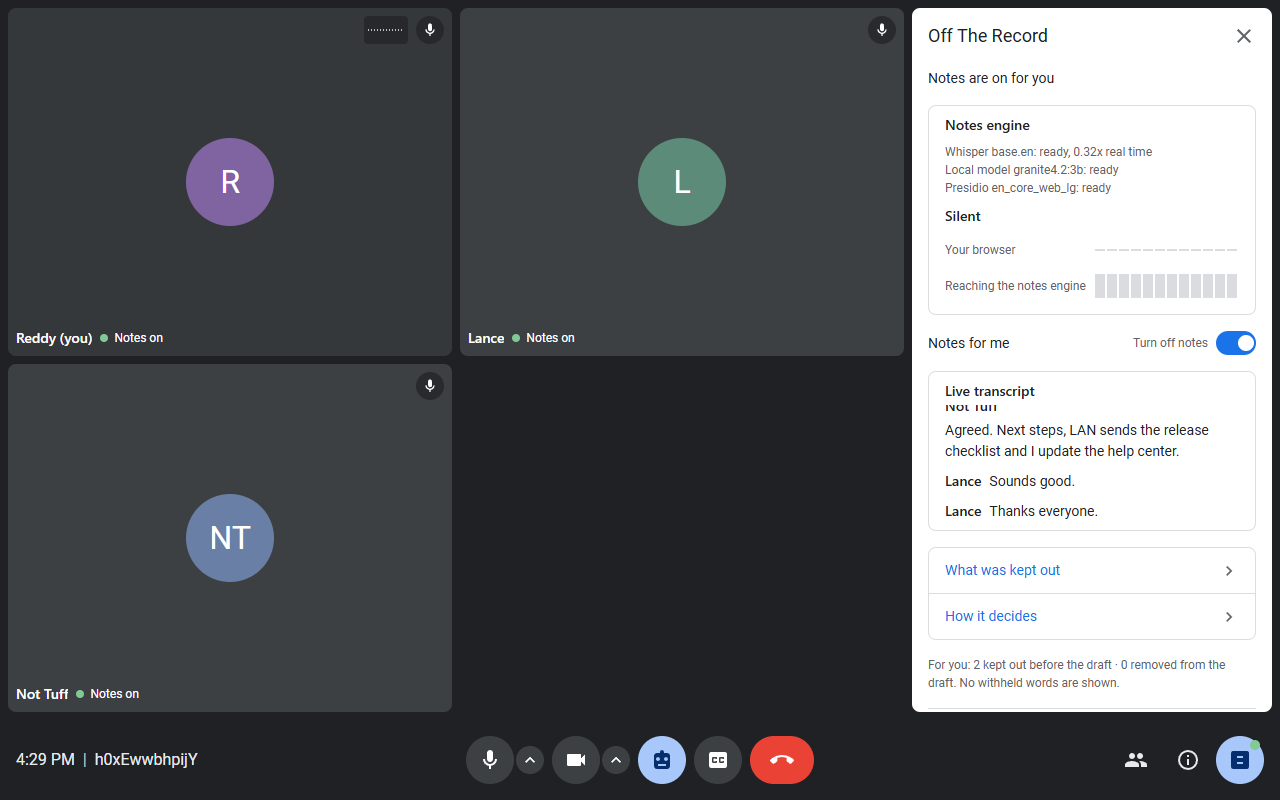
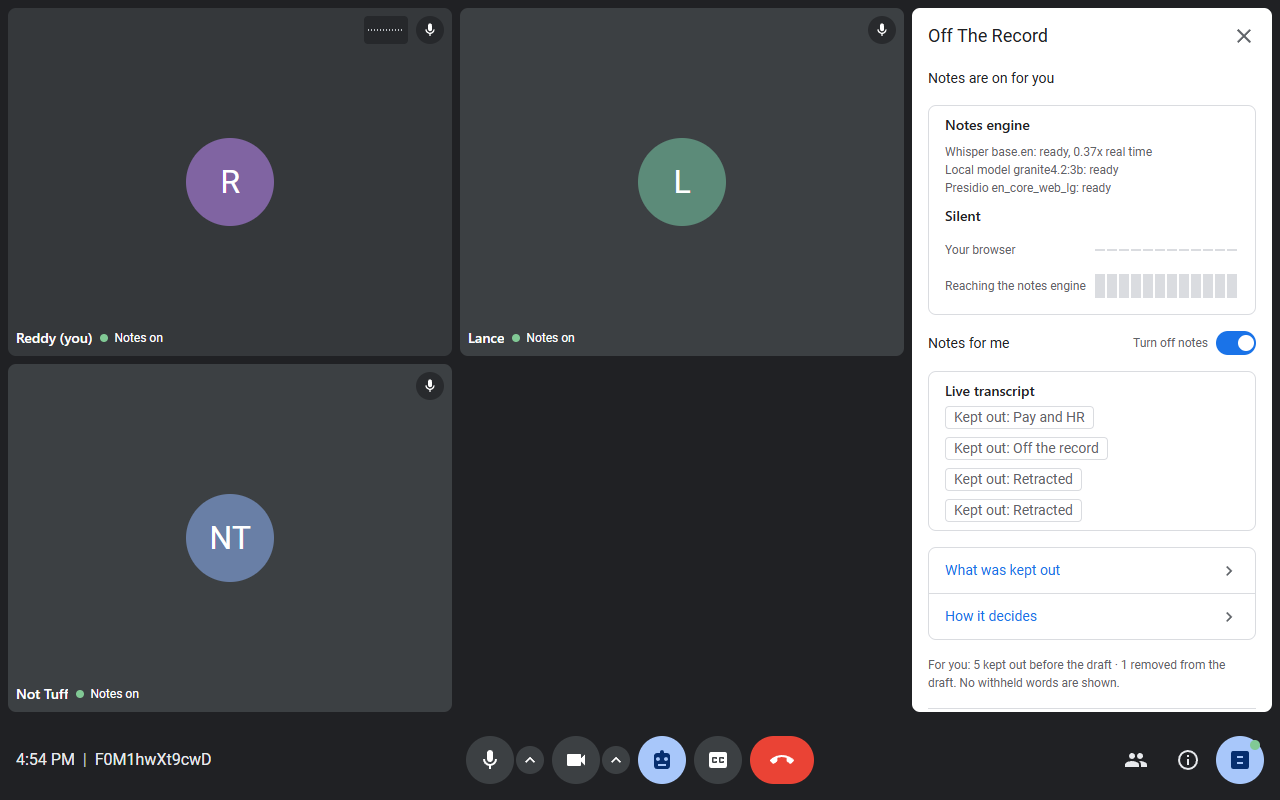
Update showcase screenshots to the new behaviour
- Sensitive lines are kept out while notes keep running
- Insights shows the ring and higher counts from a richer meeting
- Remove stale screenshots of the old pause behaviour

Changed region(s): [[0.7188, 0.5, 0.9375, 0.6562], [0.0625, 0.9375, 0.1562, 0.9688], [0.0, 0.9375, 0.0312, 0.9688]]

diff --git a/README.md b/README.md
@@ -58,13 +58,13 @@ Numbers: on the realistic sealed set, our pipeline let private lines into the no
 ![Strike that retraction, Lance](docs/images/showcase/04-strike-that-retraction-lance.png)
 
 ### Nobody says anything
-A salary mention is caught by the local model, notes pause, and the person decides when to resume.
+Salary, a performance plan, layoffs and a health matter are caught by the local model and kept out while notes keep running. You can also remove your own line with one click.
 
-![Paused for a sensitive line, Not Tuff](docs/images/showcase/06-paused-for-a-sensitive-line-not-tuff.png)
+![Sensitive lines kept out, Not Tuff](docs/images/showcase/05-sensitive-lines-kept-out-not-tuff.png)
 
-![Not Tuff chooses to resume notes](docs/images/showcase/07-not-tuff-chooses-to-resume-notes.png)
+![Lance removes his own line](docs/images/showcase/07-removed-by-you-lance.png)
 
-Afterwards, [what was kept out](docs/images/showcase/09-insights-lance.png) and [why](docs/images/showcase/11-why-kept-out-not-tuff.png).
+Afterwards, [what was kept out](docs/images/showcase/09-insights-reddy.png) and [why](docs/images/showcase/11-why-kept-out-not-tuff.png).
 
 The run had three participants (Reddy, Lance, Not Tuff) through the real call, speech to text and local model on the host laptop. Proof files: `docs/showcase/proof_*.json`.
 
